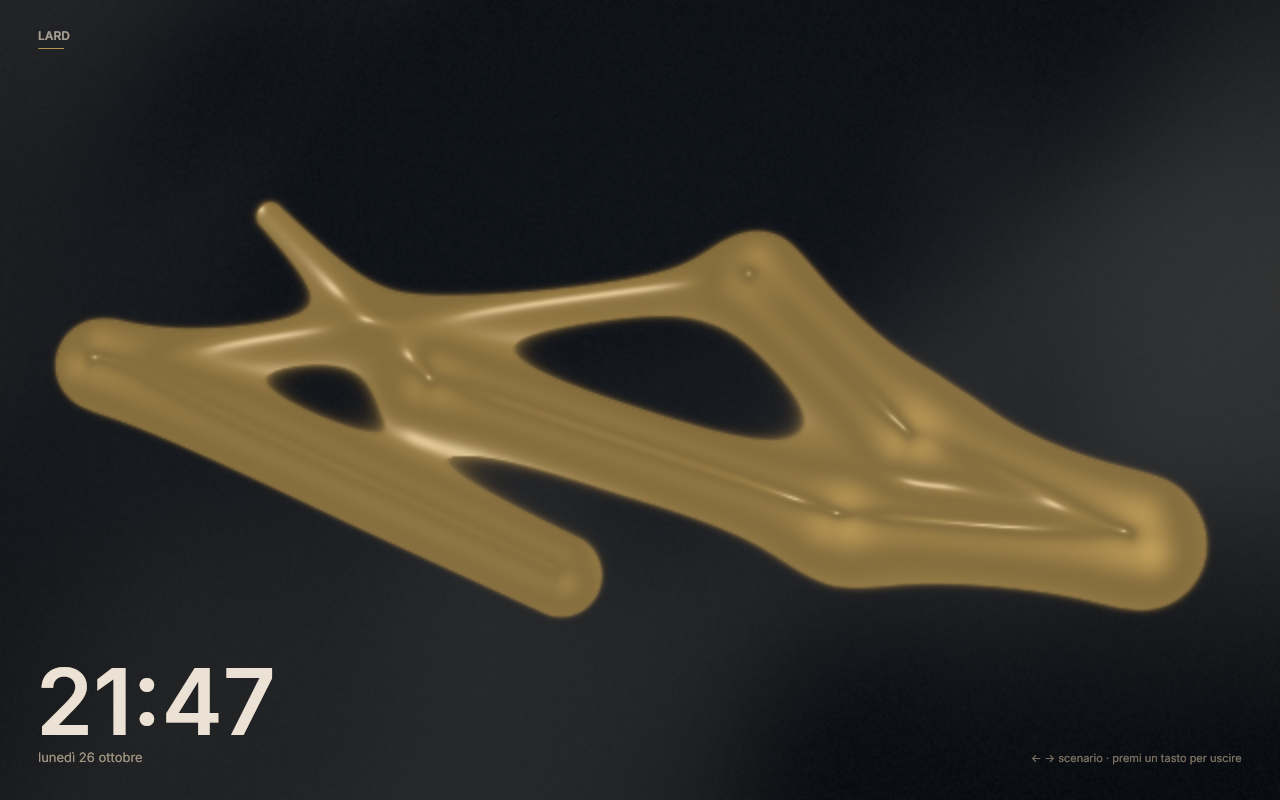
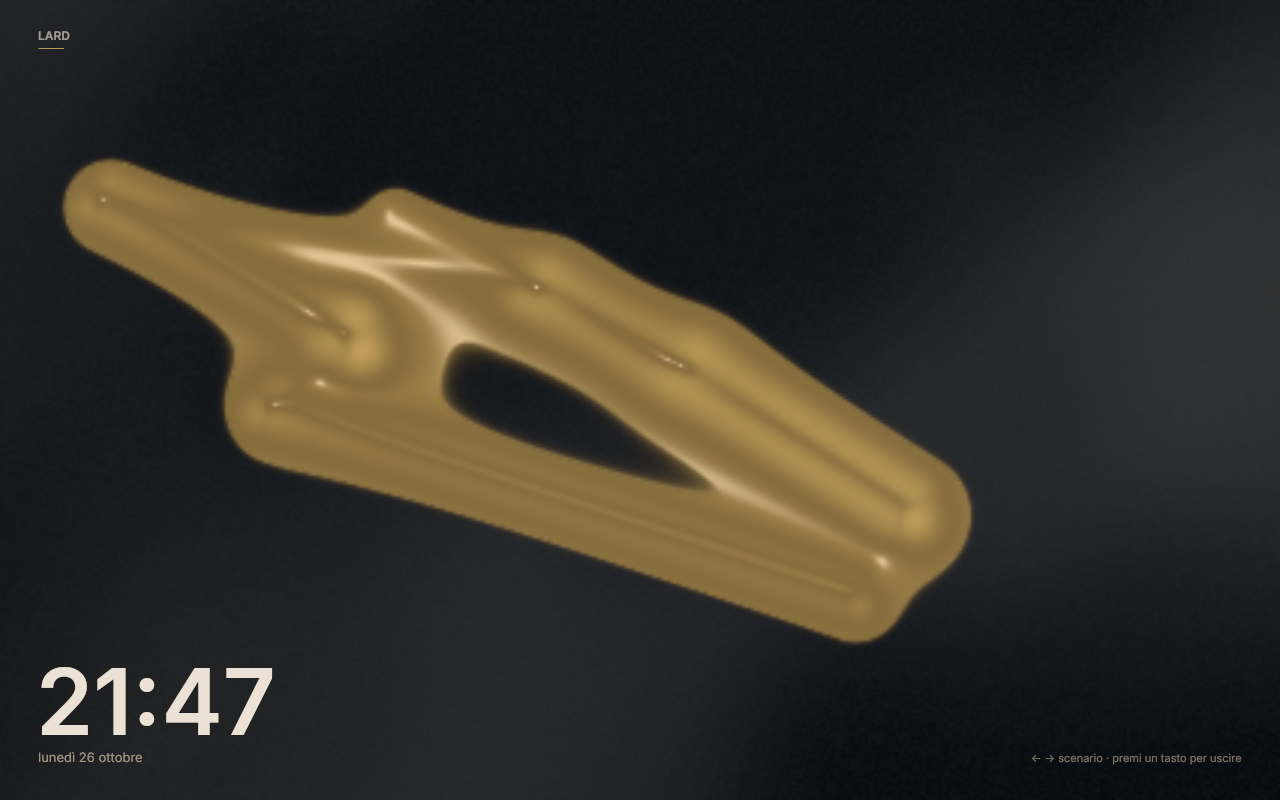
perf(screensaver): liquido a un terzo della risoluzione
A metà risoluzione l'iGPU del box non teneva il passo e, con dt limitato a
100 ms, il burn-in durava secondi invece del tempo configurato. A un terzo
della risoluzione il costo di riempimento scende di oltre due volte e la
forma è comunque morbida per definizione.

Changed region(s): [[0.0312, 0.1875, 0.9688, 0.8125]]

diff --git a/crates/lard-render/src/renderer.rs b/crates/lard-render/src/renderer.rs
@@ -643,12 +643,16 @@ impl Renderer {
 
         self.fluid_frame = scene.fluid;
         if let Some(fluid) = self.fluid_frame {
-            // The effect is drawn at half resolution: the shapes are soft by
-            // definition, and the fill rate is what an integrated GPU cannot
-            // afford at full size.
-            let half = ((screen.0.div_ceil(2)).max(1), (screen.1.div_ceil(2)).max(1));
-            self.ensure_fluid_target(half);
-            self.write_fluid_uniform(&fluid, half);
+            // The effect is soft by definition, so it is drawn at a third of
+            // the output and upscaled: on an integrated GPU the fill rate is
+            // what decides whether the scene runs at 60 fps or at five.
+            let scale = 3;
+            let small = (
+                (screen.0 / scale).max(1),
+                (screen.1 / scale).max(1),
+            );
+            self.ensure_fluid_target(small);
+            self.write_fluid_uniform(&fluid, small);
         }
         for cmd in &scene.images {
             if !self.image_atlas.has(cmd.id) {
